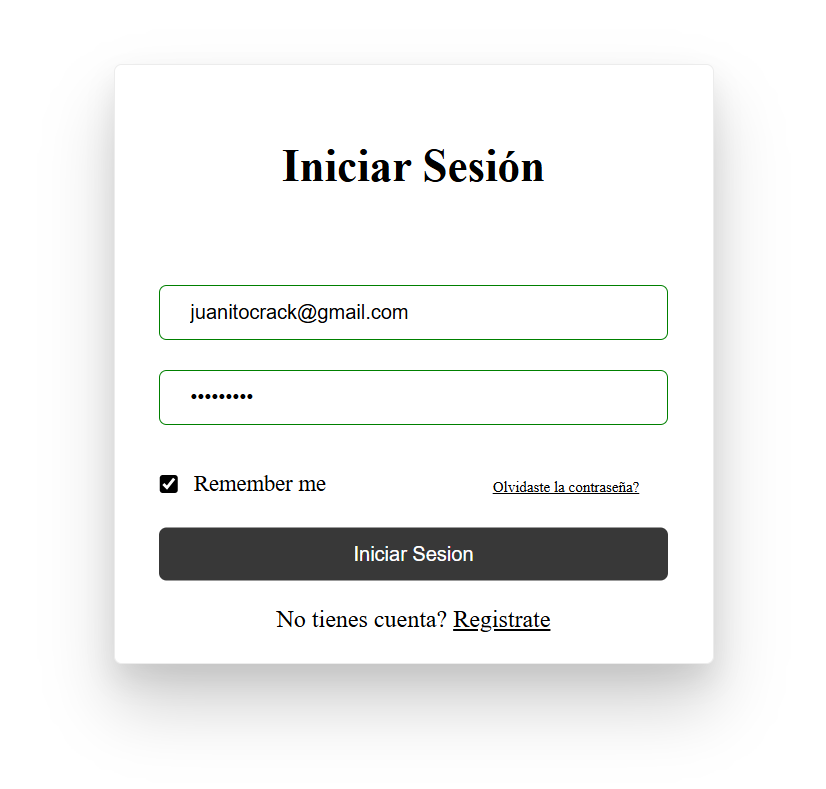
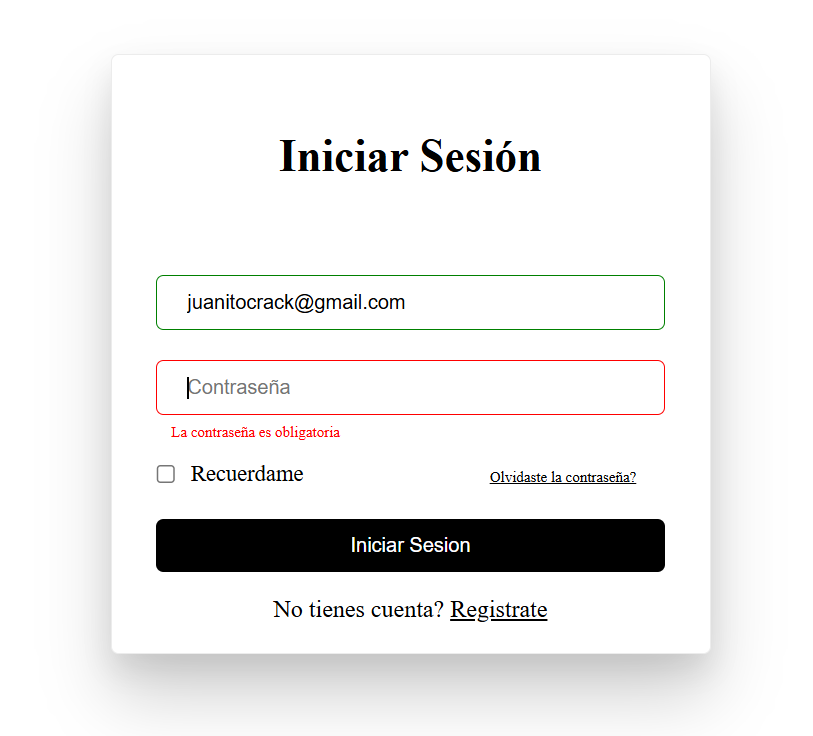
fix: rememberMe on login

diff --git a/src/components/Login/Login.jsx b/src/components/Login/Login.jsx
@@ -101,7 +101,7 @@ const Login = () => {
                 {...register("rememberMe")}
               ></input>
               <label htmlFor="rememberMe" className="login-remember-label">
-                Remember me
+                Recuerdame
               </label>
             </div>
 
